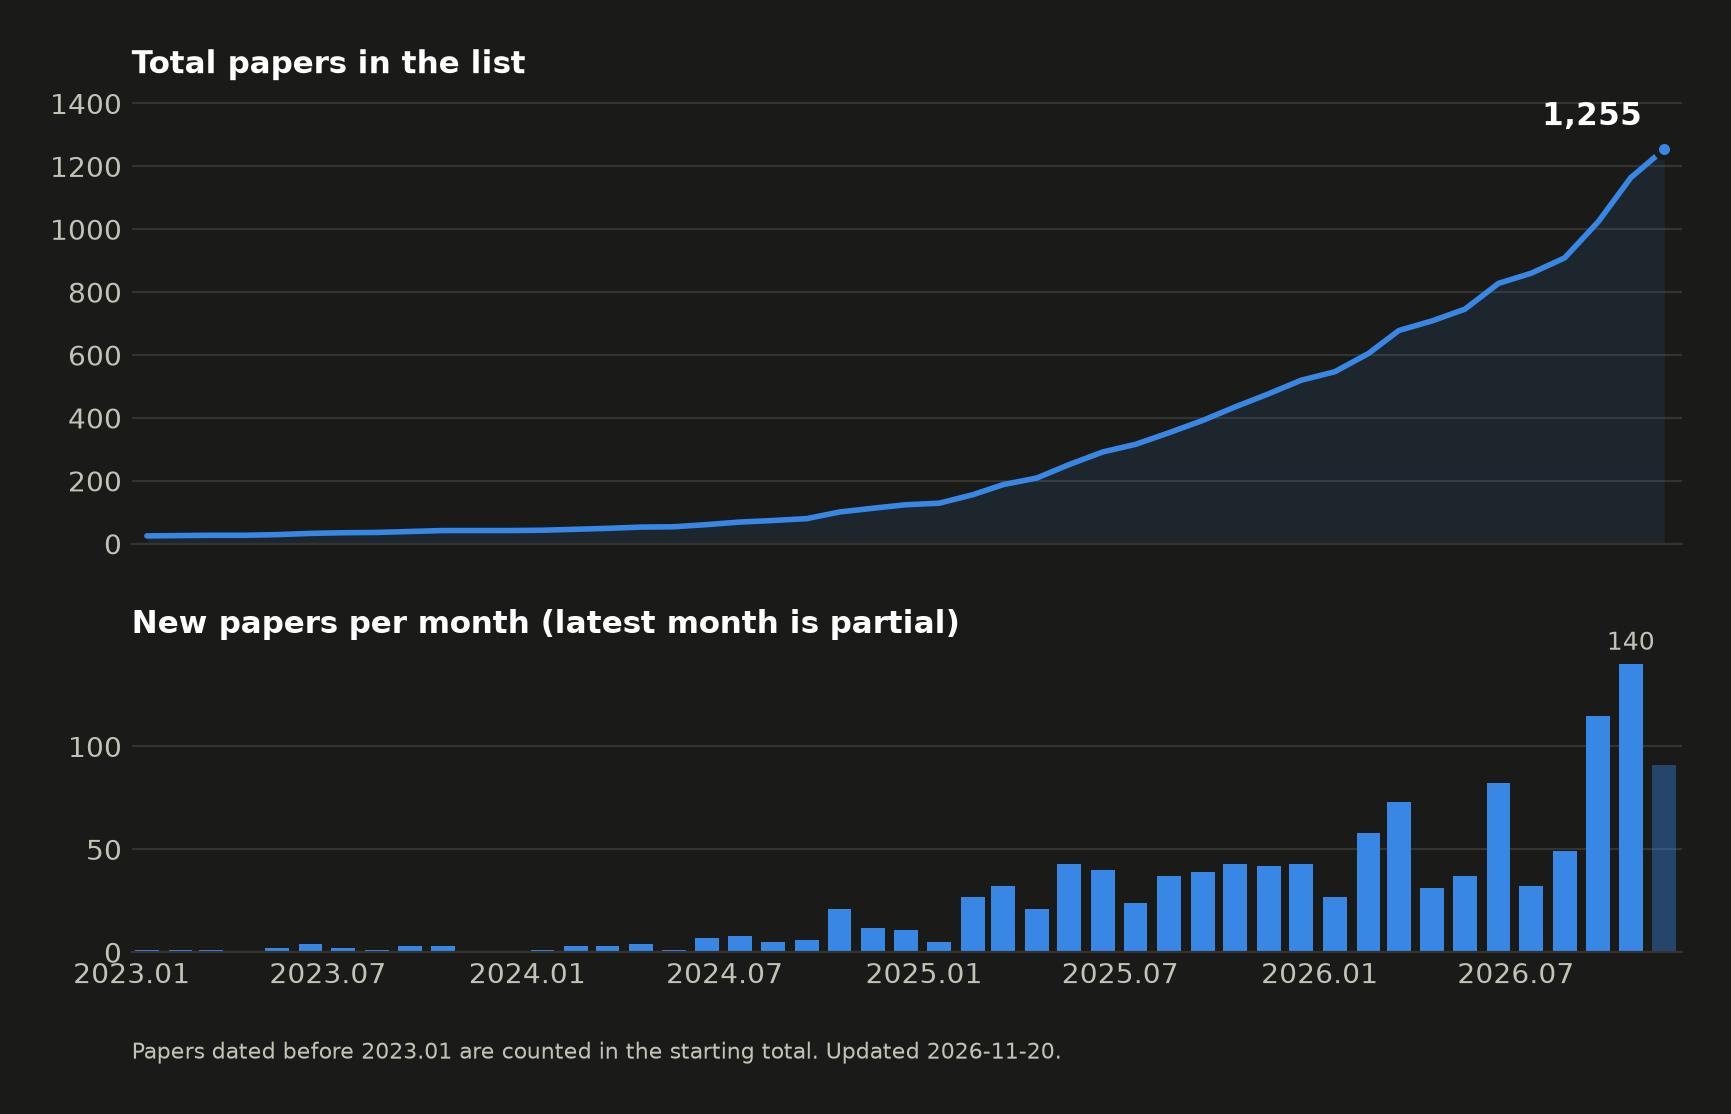
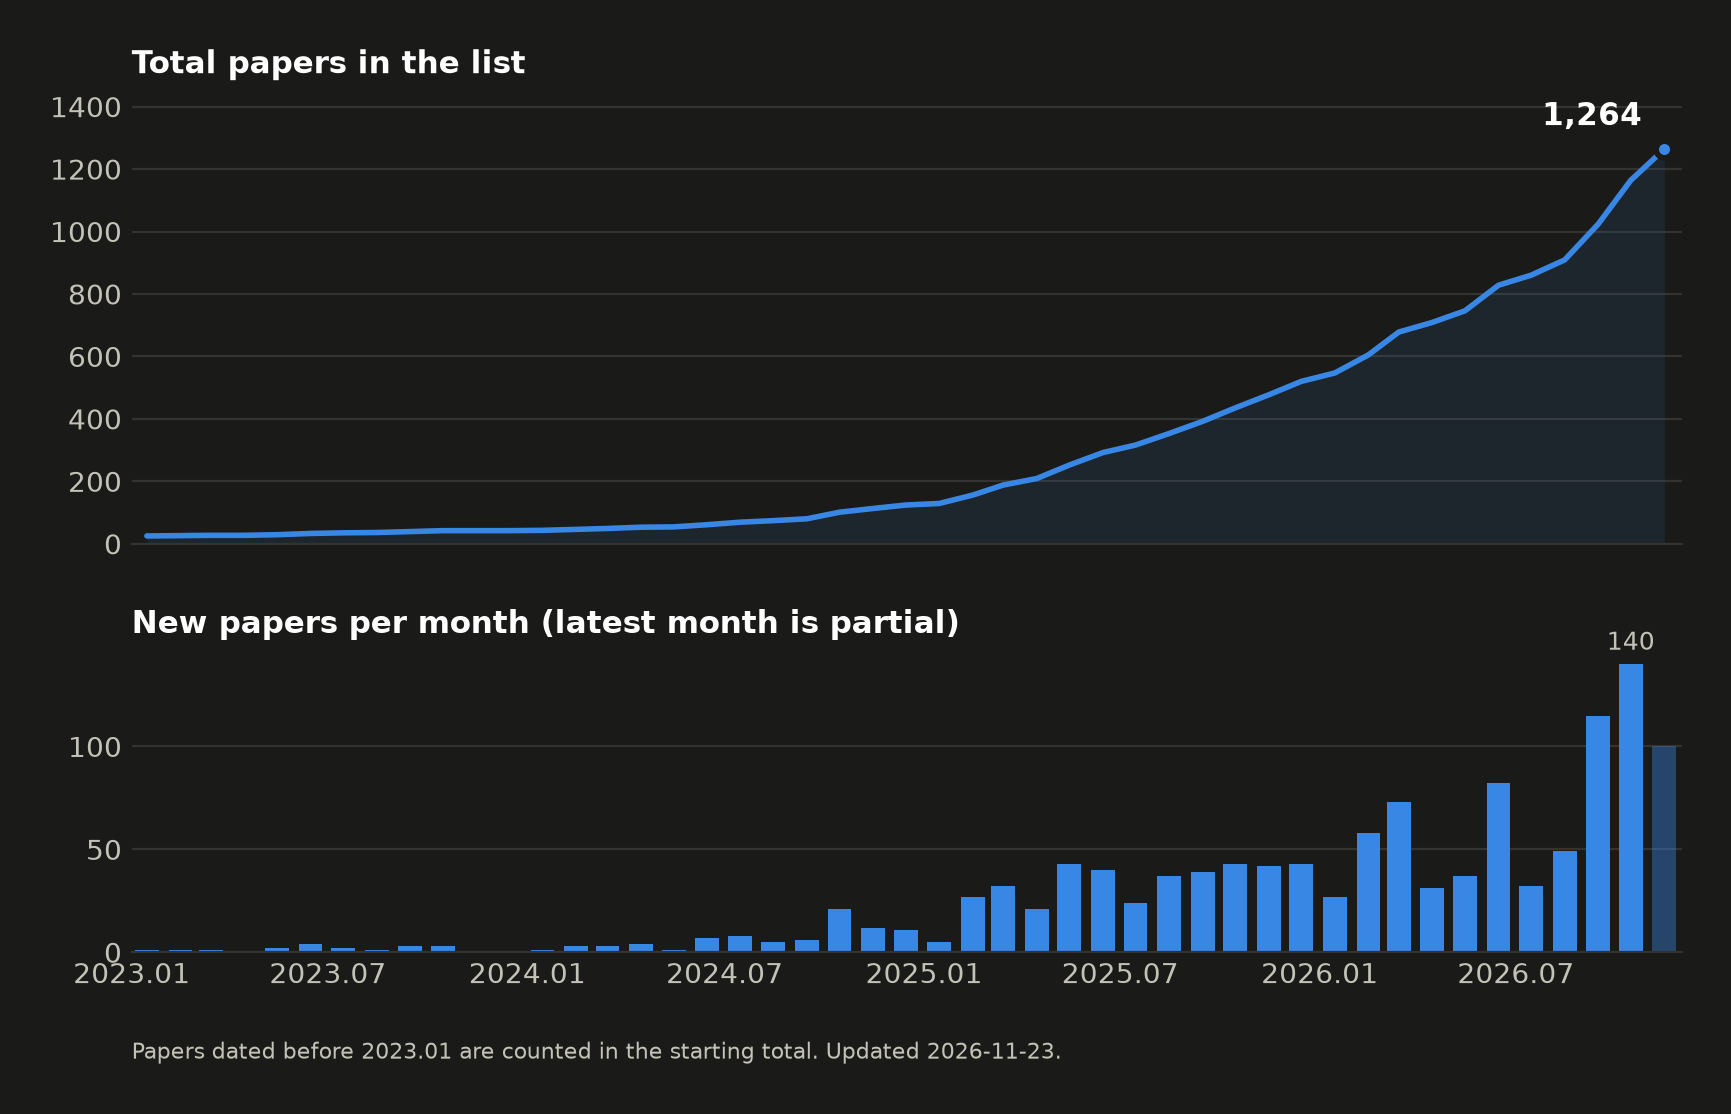
Add 9 papers from arXiv (2026-11-23)

diff --git a/README.md b/README.md
@@ -31,6 +31,11 @@ Feel free to pull a request for new papers/codes about humanoid robot learning.
 - [CoRL 2026.11](https://openreview.net/forum?id=93leGzRaPV), InfiniDanceRobot: A Streaming and Closed-Loop Music-driven Dance Generation for Humanoid Robot
 - [CoRL 2026.11](https://openreview.net/forum?id=qF26obIUEX), EVOLVE: Egocentric Vision-based Humanoid Loco-Manipulation via Demonstration Editing
 - [CoRL 2026.11](https://openreview.net/forum?id=wALhOwQWnx), Learning Functional Compliance in Whole-body Manipulation
+- [arXiv 2026.11.20](https://arxiv.org/abs/2611.27648), Trust What Repeats: Capped World-Model Policy Gradients for Humanoid Motion Tracking
+- [arXiv 2026.11.20](https://arxiv.org/abs/2611.27552), S-BFM: A Behavioral Foundation Model for Humanoid Control from Sparse Spatiotemporal Goals
+- [arXiv 2026.11.20](https://arxiv.org/abs/2611.27397), AnyBodyCodec: A Shared Native Interface for Body-Model Conversion, Extension, and Humanoid Control
+- [arXiv 2026.11.20](https://arxiv.org/abs/2611.27338), Latent Jacobian Steer: Eliciting Contact-Rich Out-of-Distribution Behaviors from Pretrained Humanoid Controllers, [website](https://latent-jacobian-steer.github.io/)
+- [arXiv 2026.11.20](https://arxiv.org/abs/2611.27047), BeyondEgo: Learning to Act Beyond Egocentric Perception via Humanoid Ego-Exo Foresight
 - [arXiv 2026.11.19](https://arxiv.org/abs/2611.26596), PGX: Physically Grounded Execution for Long-Horizon Humanoid Loco-Manipulation, [website](https://kl-research.github.io/pgx)
 - [arXiv 2026.11.19](https://arxiv.org/abs/2611.26420), Awaken-HI: Scaling Humanoid Intelligence with Whole-Body Human Experience, [website](https://engineai-robotics.github.io/Awaken-HI), [code](https://github.com/engineai-robotics/Awaken-HI)
 - [arXiv 2026.11.19](https://arxiv.org/abs/2611.25778), ECHO: In-Context Behavior foundation model for Humanoid Whole-Body Control, [website](https://mwondering.github.io/echo-bfm/)
@@ -985,6 +990,8 @@ Feel free to pull a request for new papers/codes about humanoid robot learning.
 - [2024.10](https://openreview.net/forum?id=wH7Wv0nAm8), Bi-Level Motion Imitation for Humanoid Robots, [website](https://sites.google.com/view/bmi-corl2024)
 
 ## Navigation
+- [arXiv 2026.11.20](https://arxiv.org/abs/2611.27939), What Must a Model Tell a Planner? Outcome Interfaces for Risk-Aware Planning After Robot Damage
+- [arXiv 2026.11.20](https://arxiv.org/abs/2611.27499), NavRSI: Recursive Harness Self-Improvement for Vision-and-Language Navigation, [website](https://daiguangzhao.github.io/NavRSI/)
 - [arXiv 2026.11.12](https://arxiv.org/abs/2611.17598), X-Nav Technical Report: Real-World Long-Horizon Indoor-to-Outdoor Navigation on a Humanoid Robot
 - [arXiv 2026.11](https://arxiv.org/abs/2611.12136), LHNav: Long-Horizon Humanoid Navigation via Multirate Coordination and Physics-Grounded Action Data
 - [arXiv 2026.11](https://arxiv.org/abs/2611.11665), HINT-VLM: Humanoid Interactive Navigation over Rough Terrain with Embodiment-Grounded Vision-Language Model
@@ -1024,6 +1031,7 @@ Feel free to pull a request for new papers/codes about humanoid robot learning.
 - arXiv 2025.07, LOVON: Legged Open-Vocabulary Object Navigator, [website](https://daojiepeng.github.io/LOVON/)
 
 ## State Estimation
+- [arXiv 2026.11.20](https://arxiv.org/abs/2611.27181), HumanoidPose: Monocular 3D Pose Estimation for Humanoid Robots
 - [arXiv 2026.11](https://arxiv.org/abs/2611.10137), A Unified Inertial Encoder for Human and Humanoid Motion
 - 🌟[arXiv 2026.10](https://arxiv.org/abs/2610.25288), Vision as Proprioception: Estimating Humanoid Robot Pose from Video
 - 🌟[arXiv 2026.09](https://arxiv.org/abs/2609.23610), PRIMO: Prior-Informed Odometry from Human-Motion Tracking for Humanoid Robots
@@ -1202,6 +1210,7 @@ Feel free to pull a request for new papers/codes about humanoid robot learning.
 - arXiv 2024.12, **Genesis**: A Generative and Universal Physics Engine for Robotics and Beyond, [code](https://github.com/Genesis-Embodied-AI/Genesis) / [website](https://genesis-embodied-ai.github.io/)
 
 ## Physics-Based Character Animation
+- [arXiv 2026.11.20](https://arxiv.org/abs/2611.27603), Synthesizing Expressive Human-Object Interactions via Test-time Latent Adaptation
 - [arXiv 2026.11.19](https://arxiv.org/abs/2611.26218), MixReact: Physics-Based Reactive Humanoid Control from Multimodal Cues via a Discrete-Continuous Mixture of Transformers, [website](https://binlee26.github.io/MixReact_Page/)
 - [arXiv 2026.11.18](https://arxiv.org/abs/2611.23825), Learning Martial Arts Motion Skills for Animating Opponents in VR Sparring Games
 - [arXiv 2026.11.14](https://arxiv.org/abs/2611.19153), ImpedanceMimic: Learned Impedance as Action Space for Force-Accurate Motion Imitation, [website](https://impedancemimic.github.io/ImpedanceMimic/)
